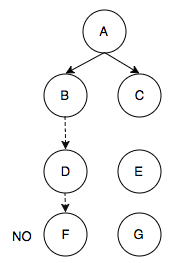
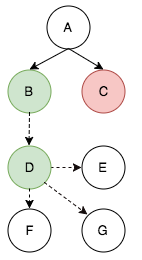
Protocol update

diff --git a/protocol/Potato_Protocol_2.1.md b/protocol/Potato_Protocol_2.1.md
@@ -23,6 +23,7 @@ PROPOSAL
 	* [Indirect and Direct Election Response](#indirect-and-direct-election-response)
 	* [Election Outcomes](#election-outcomes)
 	* [Example](#example)
+	* [Systemic Bias](#systemic-bias)
 	* [Conclusion](#conclusion)
 
 
@@ -161,13 +162,14 @@ In the `body` of the message, the client must include the following key-value pa
 	* A random string value.
 	* These values should be concatenated together with `-` symbols between them, but not preceding or following, in the above order: `time-name-random`.
 * `originator` - The client's name.
+* `direct_participants` - An array of the string names of the clients that the originator is sending direct election requests to.
 
 In an ideal mesh, the originating client would have a direct peer connection to all the clients in the mesh and would be able to simply wait for their votes and complete the election. However, we need to account for non-ideal conditions in which not all clients are directly connected to each other. To handle this, we need to employ indirect elections.
 
 ### Indirect Elections
 Because the originating client may not have a direct connection to all clients in the mesh, we cannot rely exclusively on direct elections. This is because the originating client doesn't know *who* all the clients are in the mesh - it only knows about its peers. To maintain synchronicity across the the mesh, we must allow all clients to vote, but without a full client roster, the originator neither knows when all the votes are in nor how to calculate percentages to determine a result.
 
-**Indirect elections** attempt to resolve this issue by way of representative voting. After an originating client sends a direct election request to each of its peers, those peers send a message with a `type` of `indirect_election_request` to each of their peers (excluding the originator).
+**Indirect elections** attempt to resolve this issue by way of proxy voting. After an originating client sends a direct election request to each of its peers, those peers send a message with a `type` of `indirect_election_request` to each of their peers (excluding the originator).
 
 The message should include the same `body` as the direct election request.
 
@@ -177,23 +179,25 @@ Each of the peers that receive an indirect election request should, in turn, cre
 
 In the above diagram, A is the originating client. It sends direct election requests to B and C. D is a peer of both B and C, but not of A, so both B and C would send indirect election requests to D.
 
-If B's indirect election request arrives at D before C's request does, D would send an indirect election request to all of its peers: C, E, F, and G. It does not send a request to B because B was the party that initiated its own indirect election request with D. D *does* send a request to C because D has no way of knowing that C is already involved in a direct election.
+If B's indirect election request arrives at D before C's request does, D would send an indirect election request to all of its peers who are not direct election participants: E, F, and G. It does not send a request to B because B was the party that initiated its own indirect election request with D. D also *does not* send a request to C because D can see that C is in the `direct_participants` array.
 
-Moments later, C's indirect election request arrives at D. D should check the `parent` and `next` values to determine that this is the same pairing as B's request. The client should respond with an abstain vote.
+Moments later, C's indirect election request arrives at D. D should check the `parent` and `next` values to determine that this is the same pairing as B's request. D should respond to C with an abstain vote.
 
-E is a peer of both C and D, so it is possible E will receive multiple indirect election requests. When a client receives multiple indirect election requests with the same `parent` and `next` values, it should respond to only the first request and abstain from the subsequent ones.
+The opposite would be true if C's request arrived at D before B's request.
+
+Likewise, client E is a peer of both C and D, so it is possible E will receive multiple indirect election requests. When a client receives multiple indirect election requests with the same `parent` and `next` values, it should respond to only the first request and abstain from the subsequent ones.
 
 ### Election Request Logic
 
 * An originating client that wants to make a change sends direct election requests to all of its direct peers.
-* Any client that receives a direct election request sends indirect election requests to all of its peers, excluding the originating client.
+* Any client that receives a direct election request sends indirect election requests to all of its peers, excluding the originating client and any clients appearing in the `direct_participants` array.
 * Any client that receives an indirect election request sends its own indirect election request to all of its peers except:
-	* If a peer is also the originating client, they do not receive an indirect election request.
-	* If a peer is the party that sent the client its indirect election request, it does not receive a request.
+	* If a peer is also the originating client, they must not be sent an indirect election request.
+	* If a peer is the party that sent the client its indirect election request, it must not be sent an indirect election request.
+	* If a peer is in the `direct_participants` array, it must not be sent an indirect election request.
 * If a client receives an indirect election request from a peer that the client has already sent a request with an identical `parent` and `next` value to, the client should respond with an ABSTAIN.
 * If a client receives multiple indirect election requests with the same `parent` and `next` values, it should respond with ABSTAIN to all requests except for the first one.
-	* However, if a client receives both a direct election request and an indirect election request with the same `parent` and `next` values, the client can respond to both the direct election request and the *first* indirect election request.
-
+* Each client may only vote **in one** direct or indirect election for each set of unique `parent` and `next` values. A client **may not** vote in both a direct and indirect election for a unique set of `parent` and `next` values.
 
 ### Election Voting Logic
 A client should vote according the following criteria:
@@ -202,27 +206,36 @@ A client should vote according the following criteria:
 * NO if the `parent` hash does not match the client's current frame identifier
 * NO if the `parent` hash matches the client's current frame identifier, but it has **already voted** for a different `next` hash with the same `parent` identifier.
 
-If a client has sent indirect election requests itself, it must wait either 300ms or for all the peers to respond with votes/abstains. It should tally all the votes with a weight of 1 vote per non-abstain. It should then add its own vote to the tally with a weight of 1.5. If there are more votes for YES, then YES wins. If there are more votes for NO, then NO wins.
+The client should determine how it will vote (its **internal vote**) *immediately* upon receiving a direct or indirect election request.
 
-Clients get a 1.5 vote weighting in their own elections to avoid any possibility of ties. For example, consider a situation where there are 3 peers, two of which respond with NO and one with YES. If the client votes YES, it creates a tie. But with a weighting of 1.5, it becomes 2 NO, 2.5 YES. While this may be somewhat arbitrary and unfair, it avoids the ambiguity of ties.
+After it has determined its internal vote, it should send out any applicable indirect election requests to its peers.
 
-If a client did not send any indirect election requests, it can determine YES or NO solely using the logic in the above list.
+However, the client must wait for all the peers to respond with votes/abstains before transmitting its response to the requesting client.
 
-A single YES or NO value should then be passed up to the parent client that sent the original election request.
+The client should tally all its received non-abstain votes, making sure to include its own vote with equal weight (1 vote per client). Since a client's peers may be responding with the results of their own indirect elections, the client's results will be an aggregate of any downstream elections.
 
 #### Direct Election-Specific Logic
 
-In direct elections, the originating client's vote weight remains 1.5, however it must always vote YES for itself.
+In direct elections, the originating client receives the aggregated results from each of its directly connected peers. The originating client performs the final vote tally by combining all the results it receives. The originating client also gets to vote, however it **must always** vote YES in its own direct election. In order to ensure that a tie never occurs, the originating client's vote is weighted at 1.5 votes.
 
-If an originating client receives a direct or indirect election request for a *different* `next` value than its own proposal, it must always vote NO.
+If an originating client receives a direct or indirect election request while it has an open election in progress (in other words an election request for a different `parent`/`next` value pair), it **must always** vote NO (with a standard vote weight of 1).
 
 ### Abstaining
-When a client receives an abstaining vote, it should exclude the count of those abstaining peers from the total (10 requests go out, 6 vote YES, 2 vote NO, 2 abstained - YES wins with 75% of the vote).
+When a client receives an abstaining vote, it should exclude the count of those abstaining peers from the total (10 requests go out, 6 vote YES, 2 vote NO, 2 abstained - the client should only report 6 YES and 2 NO, discarding the abstained responses).
+
+If a peer is determined to have disconnected before responding to an election request, the requesting client should treat it as an ABSTAIN vote.
 
 ### Election Duration
-An indirect election **must** terminate within 300ms. If there are peers who have not responded after 300ms of the request, those peers are considered to have abstained.
 
-There is **no** time limit on direct elections. However, no client can request more than one direct election at a time. If the originating client's desired changes update while an election is ongoing, it does not need to do anything - if it wins the election, it can simply broadcast the most up-to-date frame.
+Direct elections participants **must** respond within 300ms even if their indirect elections have not completed yet. If a direct election participant's indirect elections have not completed within 300ms, the participant should treat outstanding requests as ABSTAIN votes and respond with its internal votes plus any responses it has already received.
+
+If the originating client does not receive a response from a direct participant within 300ms, it should treat that participant as an ABSTAIN vote.
+
+These measures are necessary to prevent dropped/disconnected clients from stalling the entire mesh's synchronization process.
+ 
+No client can request more than one direct election at a time. If the originating client's desired changes update while an election is ongoing, it does not need to do anything - if it wins the election, it can simply broadcast the most up-to-date frame.
+
+There is, however, an advantage to finishing first. When an originating client wins an election with a YES result, it may broadcast its next frame, which cancels any other in-progress election. Additionally, clients must vote NO in any election whose `parent` value they have already cast a YES or NO for previously.
 
 ### Indirect and Direct Election Response
 
@@ -242,155 +255,160 @@ When a frame broadcast occurs, **all active elections must terminate without res
 
 Consider the above situation: A is the originating client, it sends direct election requests to B and C.
 
-C, D, E, and G all have multiple peers, so they will both receive indirect election requests as well as make their own indirect election requests.
+Upon receiving a direct election request, both B and C immediately evaluate their internal voting logic to determine their internal vote. Let's say that B votes YES and C votes NO.
 
-F has only one peer, which is not the originating client, so it will only receive indirect election requests.
+| Client | Responses | Response |
+| --- | --- | --- |
+| B | Internal: 1 YES |  |
+| C | Internal: 1 NO | |
 
 ![First step](img/indirect_example_01.png)
 
-Let us assume that D receives its indirect election request from B before it receives anything from C, E, or G. It will send indirect election requests to C, E, F, and G.
+Next both B and C will prepare and transmit their indirect election requests.
 
-Moments later, D receives its request from C with the same `parent` and `next` values that D has already received. Because D has already sent its own request to C and because D has already seen a request with these values, D should respond that it will abstain from C's request.
+C, D, E, and G all have multiple peers, so they may both receive indirect election requests and make their own indirect election requests.
+
+F has only one peer, which is not the originating client, so it will only receive indirect election requests.
 
 ![Second step](img/indirect_example_02.png)
 
-A similar thing will happen with E: if it receives D's request before C, it should respond to C that it is abstaining. If it receives C's request first, it should abstain from D.
+Let us assume that D receives its indirect election request from B before it receives anything from C, E, or G. Upon receiving the request, D will immediately evaluate its internal voting logic to determine its internal vote. Let's say that D decides to vote YES.
 
-Let's say E gets C's request first. The current state of the election is:
-
-| Client | Responses | Outcome |
+| Client | Responses | Response |
 | --- | --- | --- |
-| B | D: Pending | Pending |
-| C | D: ABSTAIN, E: Pending | Pending |
-| D | C: Pending, E: Pending, F: Pending, G: Pending | Pending |
-
-Since F does not have any peers it can send a request to, F can determine its vote using pure logic. Let's say it votes NO.
+| B | Internal: 1 YES, D: Pending |  |
+| C | Internal: 1 NO, D: Pending | |
+| D | Internal: 1 YES | |
 
 ![Third step](img/indirect_example_03.png)
 
-The new state is:
+D will now send indirect election requests to E, F, and G because those are its peers. D will not send anything to B because B is the source of D's request. D will also not send anything to C because C appears in the `direct_participants` array in the request `body`.
 
-| Client | Responses | Outcome |
-| --- | --- | --- | 
-| B | D: Pending | Pending |
-| C | D: ABSTAIN, E: Pending | Pending |
-| D | C: Pending, E: Pending, F: NO, G: Pending | Pending |
+Moments later, D receives its request from C with the same `parent` and `next` values that D has already received. D evaluates the request and determines that it has already voted in a request with the same `parent` and `next` values so it responds to C that it will ABSTAIN from C's request.
 
-When E receives a request from C, it has two peers it can send requests to: D and G. There is a moment in time for E before it receives D's request (which it will abstain from). During this time, E will send D its own request (since D is a peer E hasn't heard from yet).
-
-| Client | Responses | Outcome |
+| Client | Responses | Response |
 | --- | --- | --- |
-| B | D: Pending | Pending |
-| C | D: ABSTAIN, E: Pending | Pending |
-| D | C: Pending, E: Pending, F: NO, G: Pending | Pending |
-| E | D: Pending, G: Pending | Pending |
+| B | Internal: 1 YES, D: Pending |  |
+| C | Internal: 1 NO, D: ABSTAIN | |
+| D | Internal: 1 YES, E: Pending, F: Pending, G: Pending | |
 
-We can potentially run into a loop here, where both D and E simultaneously send requests to each other.
-
-If D receives E's request before D has sent its own request, D should not send any requests to E:
-
-| Client | Responses | Outcome |
-| --- | --- | --- |
-| B | D: Pending | Pending |
-| C | D: ABSTAIN, E: Pending | Pending |
-| D | C: Pending, F: NO, G: Pending | Pending |
-| E | D: Pending, G: Pending | Pending |
-
-If D receives E's request after D has sent its own request to E, D should respond with an ABSTAIN (let's say this is what happens):
-
-| Client | Responses | Outcome |
-| --- | --- | --- |
-| B | D: Pending | Pending |
-| C | D: ABSTAIN, E: Pending | Pending |
-| D | C: Pending, E: Pending, F: NO, G: Pending | Pending |
-| E | D: ABSTAIN, G: Pending | Pending |
-
-E should also respond with an ABSTAIN to D, because D's `parent` and `next` values are identical to C's request.
-
-| Client | Responses | Outcome |
-| --- | --- | --- |
-| B | D: Pending | Pending |
-| C | D: ABSTAIN, E: Pending | Pending |
-| D | C: Pending, E: ABSTAIN, F: NO, G: Pending | Pending |
-| E | D: ABSTAIN, G: Pending | Pending |
-
-
-The current diagram looks as such:
+Since F does not have any peers it does not need to wait for any additional responses before responding with its internal vote. Let's say it votes NO and responds to D with that.
 
 ![Fourth step](img/indirect_example_04.png)
 
-* F has responded with NO.
-* E is no longer expecting a response from D (because D has responded with an ABSTAIN)
-* C is no longer expecting a response from D (because D has responded with an ABSTAIN)
-* D is no longer expecting a response from E (because E has responded with an ABSTAIN)
+The new state is:
 
-G will also receive two requests: one from D and one from E. If G receives E's request before D's request, G will send its own request to D, who will respond to G with an ABSTAIN.
+| Client | Responses | Response |
+| --- | --- | --- |
+| B | Internal: 1 YES, D: Pending |  |
+| C | Internal: 1 NO, D: ABSTAIN | |
+| D | Internal: 1 YES, E: Pending, F: 0 YES 1 NO, G: Pending | |
+| F | Internal: 1 NO | 0 YES, 1 NO (sent to D) |
 
-If G receives D's request before E, it will send a request to E, who should ABSTAIN from G. Let's say this is what happens. Once E abstains from G's request, G has no more peers to send requests to, so it can internally evaluate its voting logic.
+Let's take a look at Client E now.
 
-Assume that G receives D's request before E. Let's also say G internally votes YES.
+E is a peer of both C and D so it may receive indirect election requests from both C and D.
 
-![Fifth step](img/indirect_example_05.png)
+If E receives an indirect election request from D before it receives one from C, it will vote and respond to D's request while abstaining from C's request.
 
-Since G has abstained from E, E has no more peers it is waiting on (both D and G have abstained and C is its originator). As such, it can evaluate its voting logic internally. Let's say it votes YES.
+However, let's assume that E receives C's request before it receives D's request. Upon receiving the request, E evaluates its internal voting logic to determine its internal vote - YES.
+
+![Possible fifth steps](img/indirect_example_05.png)
+
+As shown in the diagram above, D and E are peers of each other. What happens next depends entirely on the order that C, D and E send and receive their requests.
+
+* If E receives C's request before it receives a request from D, it will send an indirect election request to D (and also G).
+	* If D receives E's request before it receives B's request, it will ABSTAIN from B's request and vote in E's election.
+	* If D receives E's request after it receives B's request, it will may have already sent out a request to E. E should respond to D with ABSTAIN and D should also respond to E's request with an ABSTAIN. This avoids a loop of request/responses.
+	* If D receives E's request after it receives B's request, but before it has sent out any requests of its own, D should not send E any requests, but D should respond to E's request with an ABSTAIN.
+* If E receives C's request before it receives D's request *but* it receives D's request before it can send anything to D, it should respond to D with an ABSTAIN message, but not send D any further requests.
+* If E receives C's request after it receives a request from D, it will send an indirect election request to G only because C is in the `direct_participants` array. E will respond to C with an ABSTAIN message.
+
+For this example, let's say that E receives C's request, then receives another request from D. E should send a request to G and an ABSTAIN from D.
+
+![Fifth step](img/indirect_example_05a.png)
+
+| Client | Responses | Response |
+| --- | --- | --- |
+| B | Internal: 1 YES, D: Pending |  |
+| C | Internal: 1 NO, D: ABSTAIN, E: Pending | |
+| D | Internal: 1 YES, E: ABSTAIN, F: 0 YES 1 NO, G: Pending | |
+| E | Internal: 1 YES, G: Pending | |
+| F | Internal: 1 NO | 0 YES, 1 NO (sent to D) |
+
+
+Since G is a peer of both D and E, it may receive requests from both. G should respond with its vote to the first request it receives and it should ABSTAIN from subsequent requests.
+
+Let's say that G receives D's request first. Upon receipt, G immediately evaluates its internal logic to determine how it will vote. Let's say it votes NO. 
 
 ![Sixth step](img/indirect_example_06.png)
 
-The current state is:
+Since E is a peer of G's, G may send a request to E if it has not received E's request yet. E, which at this point has already received a request from C, will respond to G with ABSTAIN. Additionally, G, whenever it does receive E's request, will respond to E with ABSTAIN.
 
-| Client | Responses | Outcome |
+Once G receives E's ABSTAIN response to G's request, it will respond to D with its vote, since all its peers will have responded at that point.
+
+| Client | Responses | Response |
 | --- | --- | --- |
-| B | D: Pending | Pending |
-| C | D: ABSTAIN, E: Pending | Pending |
-| D | C: Pending, E: ABSTAIN, F: NO, G: YES | Pending |
-| E | D: ABSTAIN, G: ABSTAIN, Internal: YES | YES (1.5-0) |
+| B | Internal: 1 YES, D: Pending |  |
+| C | Internal: 1 NO, D: ABSTAIN, E: Pending | |
+| D | Internal: 1 YES, E: ABSTAIN, F: 0 YES 1 NO, G: - YES, 1 NO | |
+| E | Internal: 1 YES, G: Pending | |
+| F | Internal: 1 NO | 0 YES, 1 NO (sent to D) |
+| G | Internal: 1 NO | 0 YES, 1 NO (sent to D) |
 
-With E having made a decision, it can pass this vote up to C's open request.
+D will now have received responses from both F and G, as well as an ABSTAIN from E. This means all of its peers have responded, so it can send its own response to B.
 
-For C, its only open request is in E, which has responded with a YES. C should now use its internal logic to determine its own vote (let's say it votes NO). With 1 vote from E for YES, and 1.5 votes (the client gets a weight of 1.5) for NO, there are more NO votes, so C votes NO.
+D will add up the YES and NO votes it has received from its peers and include its own vote. It has received 1 NO from F and 1 NO from G. Its internal vote is YES, so it will respond with 1 YES, 2 NO.
+
+| Client | Responses | Response |
+| --- | --- | --- |
+| B | Internal: 1 YES, D: Pending |  |
+| C | Internal: 1 NO, D: ABSTAIN, E: Pending | |
+| D | Internal: 1 YES, E: ABSTAIN, F: 0 YES 1 NO, G: 0 YES, 1 NO | 1 YES, 2 NO (sent to B)|
+| E | Internal: 1 YES, G: Pending | |
+| F | Internal: 1 NO | 0 YES, 1 NO (sent to D) |
+| G | Internal: 1 NO | 0 YES, 1 NO (sent to D) |
+
+Meanwhile, G has notified E that it is abstaining (since it voted in D's election). This means that E has heard from all its peers (G responded, D sent it a discarded indirect election request request), so it can tally its results and respond to C.
+
+| Client | Responses | Response |
+| --- | --- | --- |
+| B | Internal: 1 YES, D: Pending |  |
+| C | Internal: 1 NO, D: ABSTAIN, E: Pending | |
+| D | Internal: 1 YES, E: ABSTAIN, F: 0 YES 1 NO, G: 0 YES, 1 NO | 1 YES, 2 NO (sent to B)|
+| E | Internal: 1 YES, G: ABSTAIN | 1 YES, 0 NO (sent to C)|
+| F | Internal: 1 NO | 0 YES, 1 NO (sent to D) |
+| G | Internal: 1 NO | 0 YES, 1 NO (sent to D) |
+
+Both C and B have received responses from all their peers at this point, so they can perform their tallies:
+
+| Client | Responses | Response |
+| --- | --- | --- |
+| B | Internal: 1 YES, D: 1 YES, 2 NO | 2 YES, 2 NO (sent to A)  |
+| C | Internal: 1 NO, D: ABSTAIN, E: 1 YES 0 NO | 1 YES, 1 NO (sent to A) |
+| D | Internal: 1 YES, E: ABSTAIN, F: 0 YES 1 NO, G: 0 YES, 1 NO | 1 YES, 2 NO (sent to B)|
+| E | Internal: 1 YES, G: ABSTAIN | 1 YES, 0 NO (sent to C)|
+| F | Internal: 1 NO | 0 YES, 1 NO (sent to D) |
+| G | Internal: 1 NO | 0 YES, 1 NO (sent to D) |
+
+At this point, A receives its final votes from all of its direct election participants (B and C). A tallies the results: 3 YES, 3 NO (2 YES from B + 1 YES from C, 2 NO from B + 1 NO from C).
+
+As the originating client, A is required to cast 1.5 votes as YES. As such, the vote counts are:
 
 ![Seventh step](img/indirect_example_07.png)
 
-| Client | Responses | Outcome |
-| --- | --- | --- |
-| B | D: Pending | Pending |
-| C | D: ABSTAIN, E: YES, Internal: NO| NO (1-1.5)|
-| D | C: NO, E: ABSTAIN, F: NO, G: YES | Pending |
-| E | D: ABSTAIN, G: ABSTAIN, Internal: YES | YES (1.5-0) |
+YES (4.5 votes), NO (3 votes) - YES wins
 
-At this point, C can respond to D with its vote of NO. D has 1 vote for YES (G) and 2 votes for NO (C, F). D will now run its internal logic to determine how it wants to vote - YES. Since D's internal logic gets a weight of 1.5, it is 2.5 votes for YES, 2 to NO, so YES wins in D.
+### Systemic Bias
+The Election system is designed to reward originating clients with more direct connections. Because the Election system is essentially a bottom-up tree traversal, originating clients with more direct connections will have more parallel indirect elections of shorter durations. This means they are more likely to both finish their election process first as well as benefit from the "first touch" voter advantage. The "first touch" voter advantage is the rule that clients must vote NO in any election whose `parent` value they have already seen in the current frame cycle. Thus, it is advantageous to hit as many clients as early as possible since it denies competing proposals a YES vote.
 
-![Eighth step](img/indirect_example_08.png)
+This bias is intentional because clients with more direct connections are more likely to stay up-to-date than clients on the edges of the mesh.
 
-| Client | Responses | Outcome |
-| --- | --- | --- |
-| B | D: Pending | Pending |
-| C | D: ABSTAIN, E: YES, Internal: NO| NO (1-1.5) |
-| D | C: NO, E: ABSTAIN, F: NO, G: YES, Internal: YES | YES (2.5-2) |
-| E | D: ABSTAIN, G: ABSTAIN, Internal: YES | YES (1.5-0)|
+This advantage only reveals itself when there are multiple clients proposing updates simultaneously or within a short period of time. Because this indicates a period of high frequency updates, it is important to prioritize better networked clients over edge clients because better networked clients will be able to more quickly receive subsequent updates, and in turn continue to contribute, while edge clients have a higher likelihood of lagging behind.
 
-Now that D has declared for YES, it can respond to B. B perform its own internal logic and also votes for YES - with 2.5 votes for YES and 0 for NO, B declares for YES.
+When the frequency of updates decreases, edge clients have more equitable access for proposing updates. In these conditions, the Election system acts as a verification tool to ensure that the updating client is proposing an update based on a frame that the majority of clients use (versus lagging behind or being too far ahead).
 
-![Ninth step](img/indirect_example_09.png)
-
-| Client | Responses | Outcome |
-| --- | --- | --- |
-| B | D: YES, Internal: YES | YES (2.5-0) |
-| C | D: ABSTAIN, E: YES, Internal: NO| NO (1-1.5) |
-| D | C: NO, E: ABSTAIN, F: NO, G: YES, Internal: YES | YES (2.5-2) |
-| E | D: ABSTAIN, G: ABSTAIN, Internal: YES | YES (1.5-0)|
-
-Finally, the direct election can be voted on. B will vote for YES while C will vote for NO.
-
-Because this is a direct election, the originator (A) must vote for itself with a weight of 1.5, so YES wins with 2.5 votes to 1 vote for NO.
-
-![Tenth step](img/indirect_example_10.png)
-
-* A - YES (1.5 votes)
-* B - YES (1 vote)
-* C - NO (1 vote)
-
-YES (2.5 votes), NO (1 vote) - YES wins
+The biggest weakness in this system is dealing with network disconnects. While known disconnect events should be treated as ABSTAIN votes, undetected disconnects have the potential to lock up the entire election process. As such, a 300ms timeout is proposed, at which point any pending request is treated as a vote for ABSTAIN. However, this has the disadvantage of diminishing the network advantage described above. The hope is that by keeping the mesh synchronization process moving forward, unexpected behaviors resulting from disconnects/lost responses will be diminished over time as subsequent frame updates overwrite these changes.
 
 ### Conclusion
 With this combination of direct and indirect elections, clients in the mesh are able to reach a consensus without direct connections with each other or even being aware of the full mesh population.
